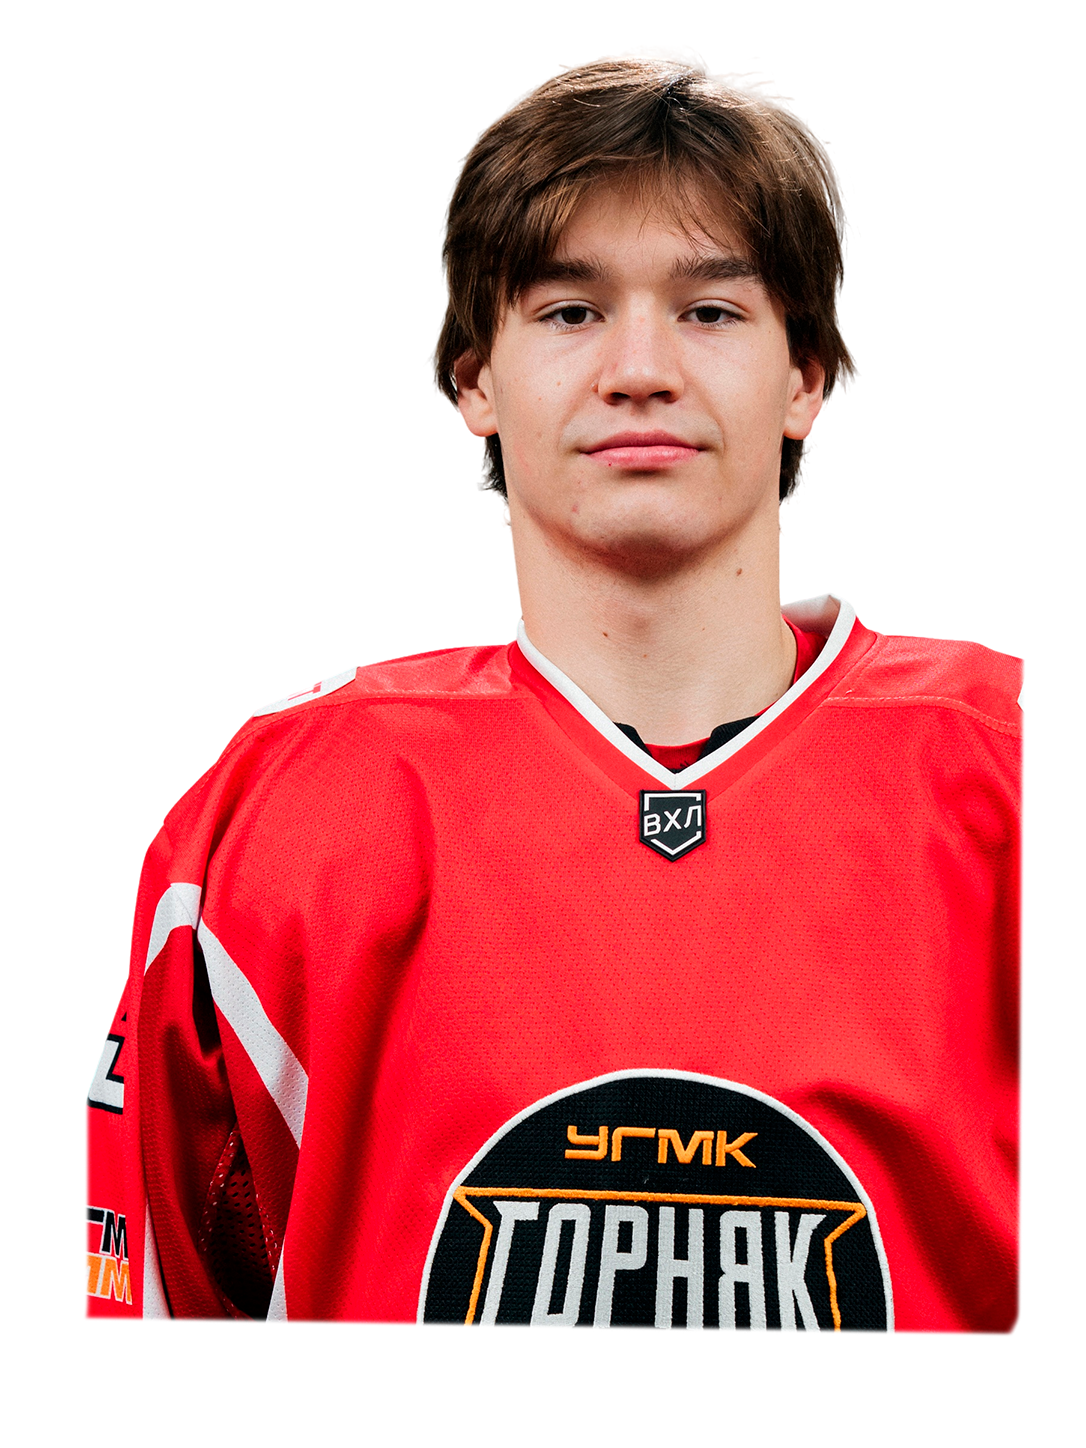
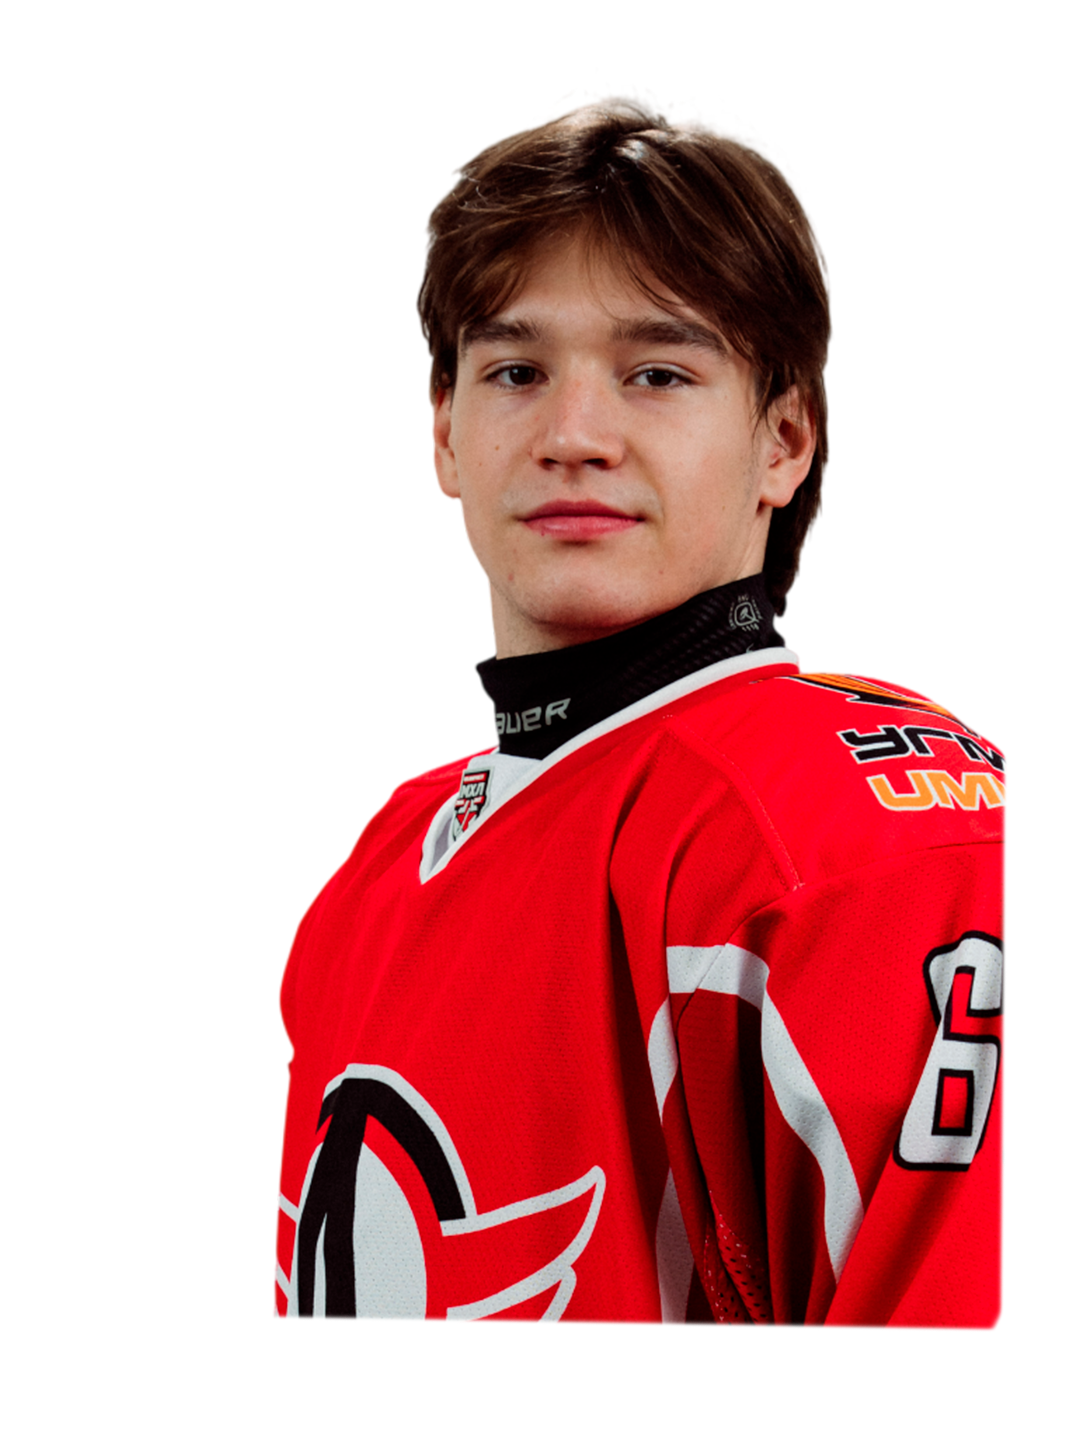
Add MHK Auto players and photos

diff --git a/src/data/mhkAutoPlayers.js b/src/data/mhkAutoPlayers.js
@@ -12,6 +12,14 @@ export function createMhkAutoPlayers(factory) {
     factory.createMhkAutoPlayer("Максим", "Кривоножкин", "krivonozhkin", ROSTER_POSITIONS.forward, 3, "maxim_krivonozhkin"),
     factory.createMhkAutoPlayer("Александр", "Пимин", "pimin", ROSTER_POSITIONS.forward, 12, "alexander_pimin"),
     factory.createMhkAutoPlayer("Федор", "Казадаев", "kazadaev", ROSTER_POSITIONS.forward, 4, "fedor_kazadaev"),
+    factory.createMhkAutoPlayer("Никита", "Афанасьев", "afanasyev", ROSTER_POSITIONS.forward, 7, "nikita_afanasyev"),
+    factory.createMhkAutoPlayer("Николай", "Бутко", "butko", ROSTER_POSITIONS.forward, 4, "nikolay_butko"),
+    factory.createMhkAutoPlayer("Амир", "Касимов", "kasimov", ROSTER_POSITIONS.forward, 6, "amir_kasimov"),
+    factory.createMhkAutoPlayer("Анатолий", "Мартыновский", "martynovskiy", ROSTER_POSITIONS.forward, 3, "anatoly_martynovskiy"),
+    factory.createMhkAutoPlayer("Филипп", "Морозов", "filipp_morozov", ROSTER_POSITIONS.forward, 7, "filipp_morozov"),
+    factory.createMhkAutoPlayer("Леонид", "Онищук", "onishchuk", ROSTER_POSITIONS.forward, 5, "leonid_onishchuk"),
+    factory.createMhkAutoPlayer("Михаил", "Осипов", "osipov", ROSTER_POSITIONS.forward, 4, "mikhail_osipov"),
+    factory.createMhkAutoPlayer("Ярослав", "Трегубов", "tregubov", ROSTER_POSITIONS.forward, 3, "yaroslav_tregubov"),
     factory.createMhkAutoPlayer("Леонид", "Иванов", "ivanov", ROSTER_POSITIONS.defender, 5, "leonid_ivanov"),
     factory.createMhkAutoPlayer("Матвей", "Чумаков", "chumakov", ROSTER_POSITIONS.defender, 3, "matvey_chumakov"),
     factory.createMhkAutoPlayer("Михаил", "Ляжьев", "lyazhev", ROSTER_POSITIONS.defender, 3, "mikhail_lyazhev"),
@@ -19,9 +27,15 @@ export function createMhkAutoPlayers(factory) {
     factory.createMhkAutoPlayer("Георгий", "Забудко", "zabudko", ROSTER_POSITIONS.defender, 3, "georgy_zabudko"),
     factory.createMhkAutoPlayer("Андрей", "Мамай", "mamay", ROSTER_POSITIONS.defender, 8, "andrey_mamay"),
     factory.createMhkAutoPlayer("Савелий", "Ивонин", "ivonin", ROSTER_POSITIONS.defender, 6, "savely_ivonin"),
+    factory.createMhkAutoPlayer("Андрей", "Горбунов", "andreyGorbunov", ROSTER_POSITIONS.defender, 3, "andrey_gorbunov"),
+    factory.createMhkAutoPlayer("Дмитрий", "Маругин", "marugin", ROSTER_POSITIONS.defender, 3, "dmitry_marugin"),
+    factory.createMhkAutoPlayer("Андрей", "Сальников", "salnikov", ROSTER_POSITIONS.defender, 3, "andrey_salnikov"),
+    factory.createMhkAutoPlayer("Данила", "Семейкин", "semeykin", ROSTER_POSITIONS.defender, 6, "danila_semeykin"),
+    factory.createMhkAutoPlayer("Константин", "Юрков", "yurkov", ROSTER_POSITIONS.defender, 3, "konstantin_yurkov"),
     factory.createMhkAutoPlayer("Ефим", "Минаев", "minaev", ROSTER_POSITIONS.goalkeeper, 3, "efim_minaev"),
     factory.createMhkAutoPlayer("Сергей", "Соколкин", "sokolkin", ROSTER_POSITIONS.goalkeeper, 8, "sergey_sokolkin"),
     factory.createMhkAutoPlayer("Сергей", "Горбунов", "sergeyGorbunov", ROSTER_POSITIONS.goalkeeper, 5, "sergey_gorbunov"),
     factory.createMhkAutoPlayer("Ярослав", "Немытых", "nemytykh", ROSTER_POSITIONS.goalkeeper, 3, "yaroslav_nemytykh"),
+    factory.createMhkAutoPlayer("Арсений", "Беднягин", "bednyagin", ROSTER_POSITIONS.goalkeeper, 3, "arseny_bednyagin"),
   ];
 }

diff --git a/src/data/mhkAutoNumbers.js b/src/data/mhkAutoNumbers.js
@@ -16,8 +16,22 @@ export const MHK_AUTO_NUMBERS = Object.freeze({
   krivonozhkin: 82,
   pimin: 51,
   kazadaev: 81,
+  afanasyev: 97,
+  butko: 41,
+  kasimov: 34,
+  martynovskiy: 84,
+  filipp_morozov: 57,
+  onishchuk: 47,
+  osipov: 64,
+  tregubov: 27,
   zabudko: 2,
   mamay: 5,
   ivonin: 74,
+  andreyGorbunov: 25,
+  marugin: 83,
+  salnikov: 4,
+  semeykin: 60,
+  yurkov: 53,
   nemytykh: 40,
+  bednyagin: 38,
 });
